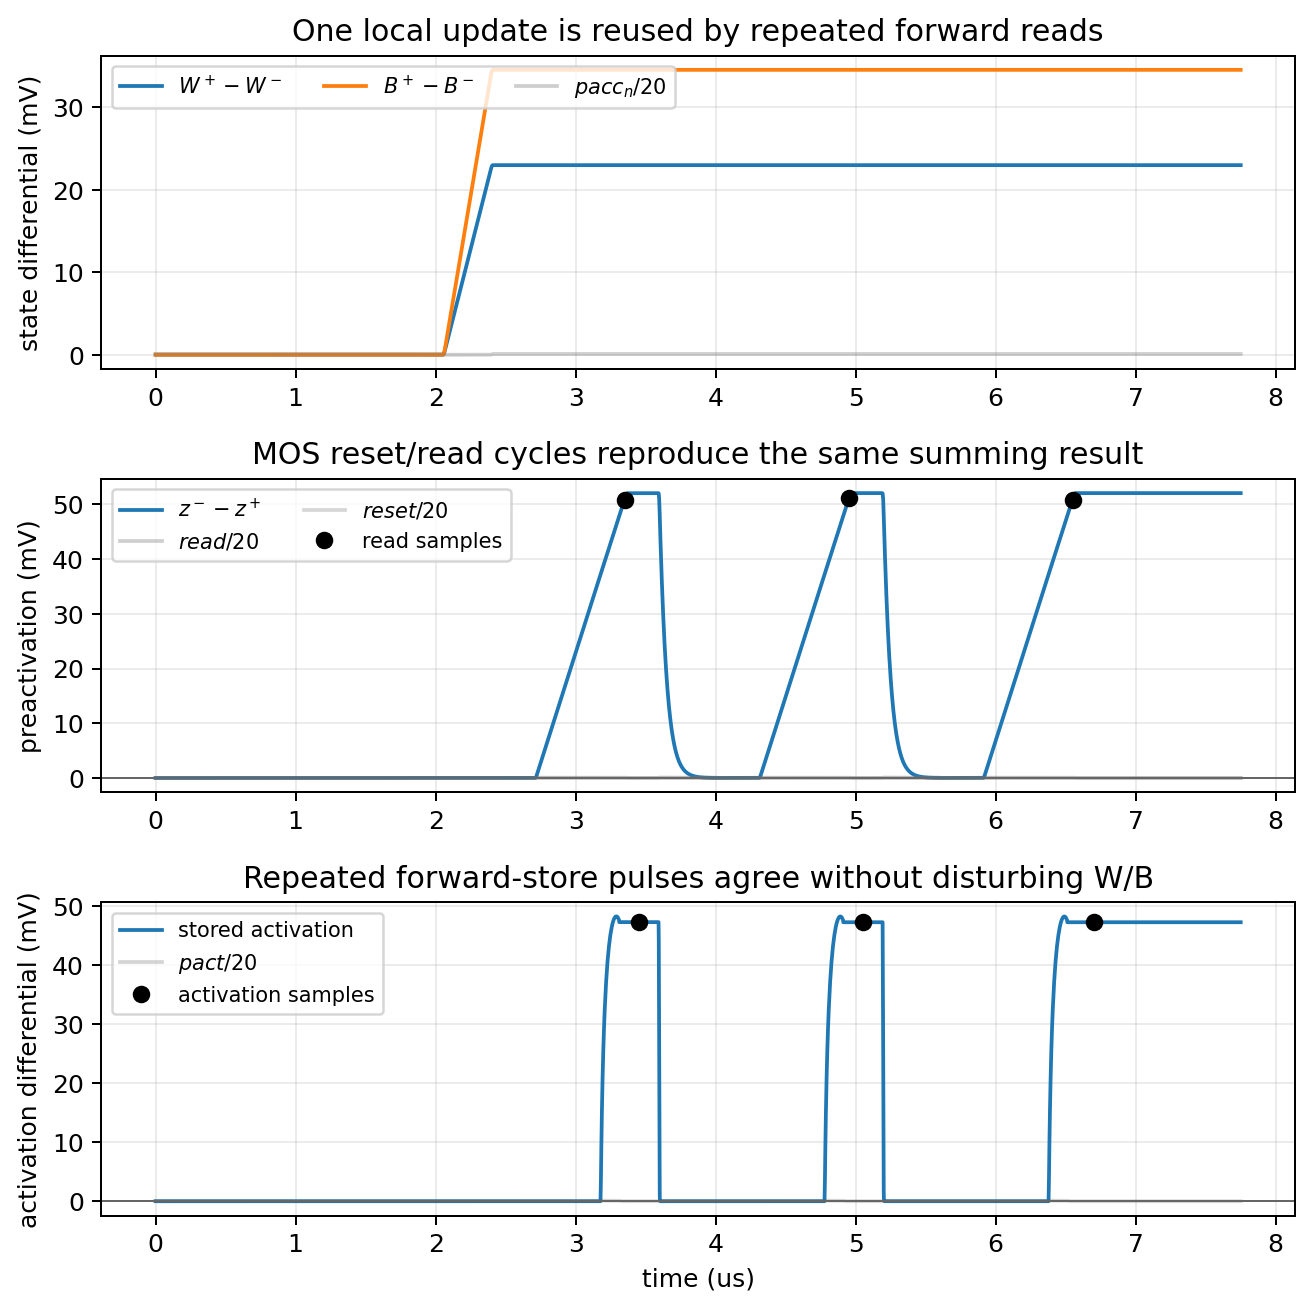
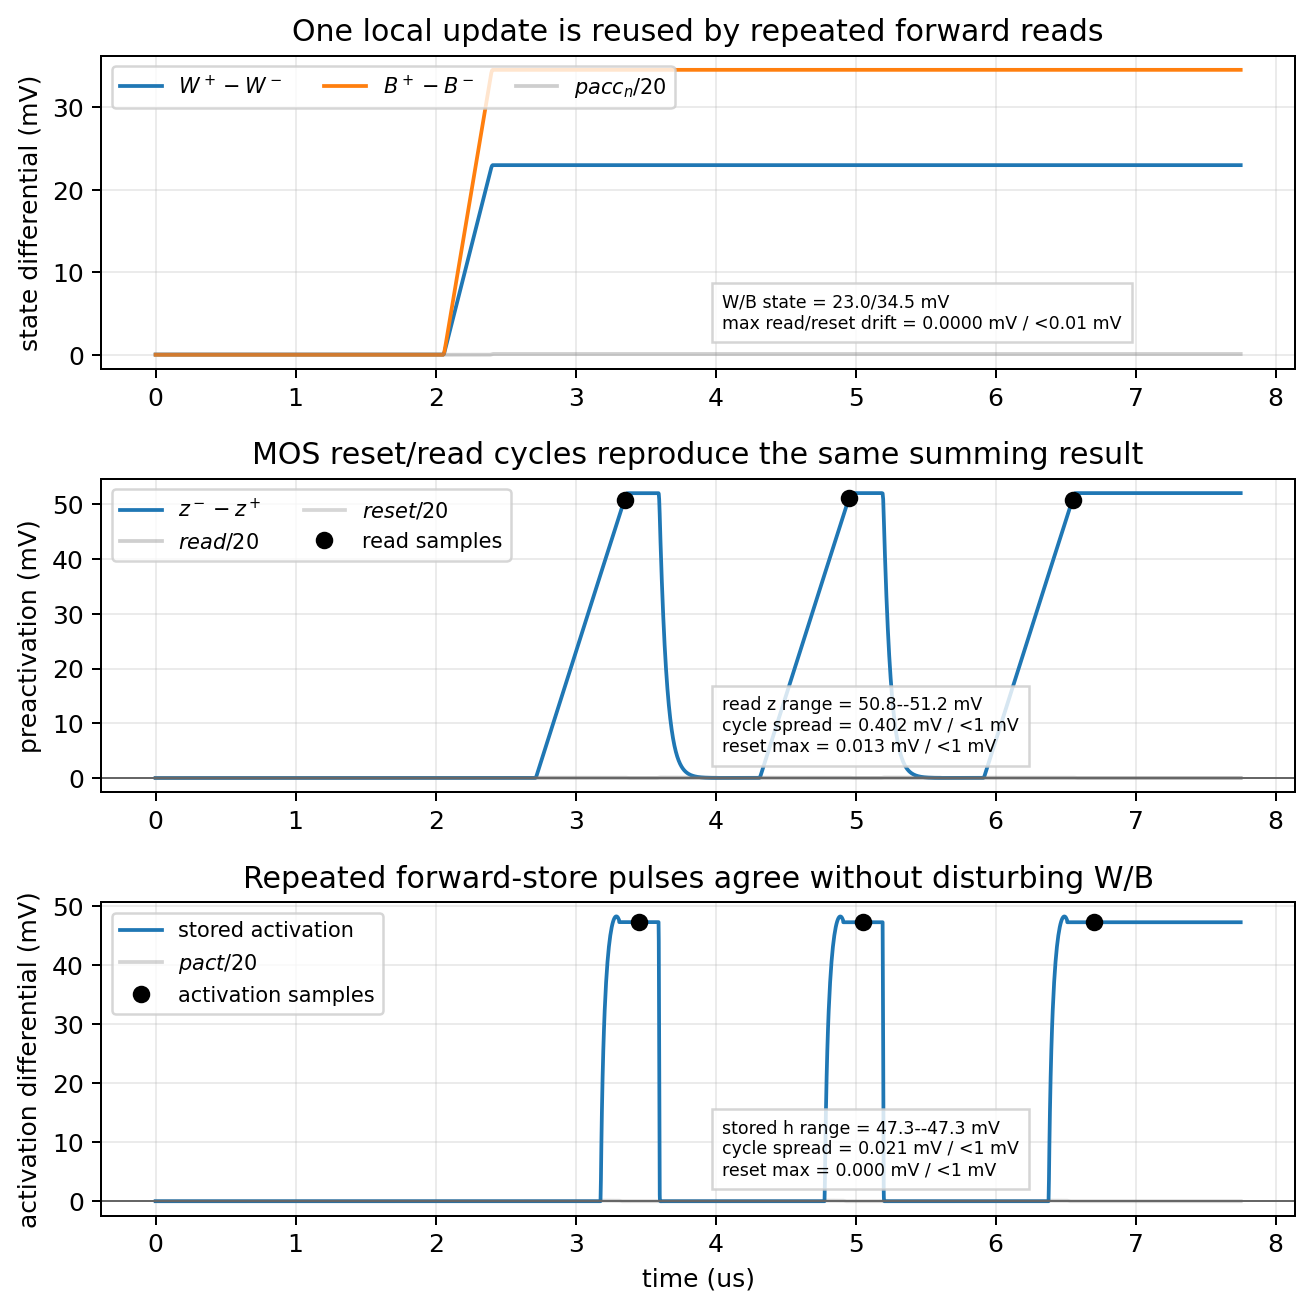
Annotate update-forward reuse margins

Changed region(s): [[0.5312, 0.2139, 0.875, 0.275], [0.5312, 0.8251, 0.7812, 0.9167], [0.5312, 0.5195, 0.7812, 0.5806]]

diff --git a/spice/run_mos_cell_characterization.py b/spice/run_mos_cell_characterization.py
@@ -8301,6 +8301,16 @@ quit
     require(np.all(np.abs(hyf_bias) > 0.030), "update-forward quadrant biases should have useful magnitude")
     require(np.all(np.abs(hyf_preact) > 0.045), "update-forward quadrant preactivations should have useful magnitude")
     require(np.all(np.abs(hyf_forward_store) > 0.030), "update-forward quadrant stored activations should have useful magnitude")
+    hyf_hidden_symmetry_error = abs(hyfat(1.35e-6, hyf_hidden_pos + hyf_hidden_neg))
+    hyf_selected_max = max(hyfat(1.45e-6, hyf_rp_selected_gate), hyfat(1.45e-6, hyf_rm_selected_gate))
+    hyf_complement_min = min(hyfat(1.45e-6, hyf_rp_complement_gate), hyfat(1.45e-6, hyf_rm_complement_gate))
+    hyf_weight_mag_min = float(np.min(np.abs(hyf_weight)))
+    hyf_weight_mag_spread = float(np.max(np.abs(hyf_weight)) - hyf_weight_mag_min)
+    hyf_bias_mag_min = float(np.min(np.abs(hyf_bias)))
+    hyf_bias_mag_spread = float(np.max(np.abs(hyf_bias)) - hyf_bias_mag_min)
+    hyf_preact_mag_min = float(np.min(np.abs(hyf_preact)))
+    hyf_store_mag_min = float(np.min(np.abs(hyf_forward_store)))
+    hyf_store_mag_spread = float(np.max(np.abs(hyf_forward_store)) - hyf_store_mag_min)
 
     hyf_x = np.arange(len(hybrid_product_cases))
     hyf_labels = [label for _name, label, *_rest in hybrid_product_cases]
@@ -8315,6 +8325,19 @@ quit
     hyf_axes[0].set_ylabel("voltage (V)")
     hyf_axes[0].set_title("Four matched copies store both error signs once")
     hyf_axes[0].grid(True, alpha=0.25)
+    hyf_axes[0].text(
+        0.05,
+        0.13,
+        "e+/e- stores = "
+        f"{1e3 * hyfat(1.35e-6, hyf_hidden_pos):.1f}/{1e3 * hyfat(1.35e-6, hyf_hidden_neg):.1f} mV\n"
+        "symmetry error = "
+        f"{1e3 * hyf_hidden_symmetry_error:.2f} mV / <3 mV\n"
+        "selected max = "
+        f"{hyf_selected_max:.2f} V, complement min = {hyf_complement_min:.2f} V",
+        transform=hyf_axes[0].transAxes,
+        fontsize="x-small",
+        bbox=callout_box,
+    )
     hyf_axes[0].legend(loc="center right", ncol=2, fontsize="small")
     hyf_weight_bars = hyf_axes[1].bar(hyf_x - 0.18, 1e3 * hyf_weight, width=0.36, label="$W^+ - W^-$")
     hyf_bias_bars = hyf_axes[1].bar(hyf_x + 0.18, 1e3 * hyf_bias, width=0.36, label="$B^+ - B^-$")
@@ -8324,11 +8347,26 @@ quit
     hyf_axes[1].set_ylabel("state step (mV)")
     hyf_axes[1].set_title("local update writes signed W/B capacitor states")
     hyf_state_max = max(1.0, float(1e3 * np.max(np.abs(np.concatenate([hyf_weight, hyf_bias])))))
-    hyf_axes[1].set_ylim(-1.35 * hyf_state_max, 1.35 * hyf_state_max)
+    hyf_axes[1].set_ylim(-1.55 * hyf_state_max, 2.70 * hyf_state_max)
     hyf_axes[1].bar_label(hyf_weight_bars, labels=[f"{value:+.1f}" for value in 1e3 * hyf_weight], padding=2, fontsize="x-small")
     hyf_axes[1].bar_label(hyf_bias_bars, labels=[f"{value:+.1f}" for value in 1e3 * hyf_bias], padding=2, fontsize="x-small")
     hyf_axes[1].grid(True, axis="y", alpha=0.25)
-    hyf_axes[1].legend(loc="center left", bbox_to_anchor=(1.01, 0.5), fontsize="small")
+    hyf_axes[1].text(
+        0.04,
+        0.62,
+        "min |W| = "
+        f"{1e3 * hyf_weight_mag_min:.1f} mV / >18 mV\n"
+        "|W| spread = "
+        f"{1e3 * hyf_weight_mag_spread:.2f} mV\n"
+        "min |B| = "
+        f"{1e3 * hyf_bias_mag_min:.1f} mV / >30 mV\n"
+        "|B| spread = "
+        f"{1e3 * hyf_bias_mag_spread:.2f} mV",
+        transform=hyf_axes[1].transAxes,
+        fontsize="x-small",
+        bbox=callout_box,
+    )
+    hyf_axes[1].legend(loc="upper right", ncol=2, fontsize="small")
     hyf_preact_bars = hyf_axes[2].bar(hyf_x - 0.24, 1e3 * hyf_preact, width=0.24, label="$z^- - z^+$")
     hyf_load_bars = hyf_axes[2].bar(hyf_x, 1e3 * hyf_forward_load, width=0.24, label="forward load")
     hyf_store_bars = hyf_axes[2].bar(hyf_x + 0.24, 1e3 * hyf_forward_store, width=0.24, label="stored activation")
@@ -8339,12 +8377,26 @@ quit
     hyf_axes[2].set_ylabel("differential (mV)")
     hyf_axes[2].set_title("read, forward pair, and activation store follow the error sign")
     hyf_forward_max = max(1.0, float(1e3 * np.max(np.abs(np.concatenate([hyf_preact, hyf_forward_load, hyf_forward_store])))))
-    hyf_axes[2].set_ylim(-1.35 * hyf_forward_max, 1.35 * hyf_forward_max)
+    hyf_axes[2].set_ylim(-1.55 * hyf_forward_max, 2.70 * hyf_forward_max)
     hyf_axes[2].bar_label(hyf_preact_bars, labels=[f"{value:+.1f}" for value in 1e3 * hyf_preact], padding=2, fontsize="x-small")
     hyf_axes[2].bar_label(hyf_load_bars, labels=[f"{value:+.1f}" for value in 1e3 * hyf_forward_load], padding=2, fontsize="x-small")
     hyf_axes[2].bar_label(hyf_store_bars, labels=[f"{value:+.1f}" for value in 1e3 * hyf_forward_store], padding=2, fontsize="x-small")
     hyf_axes[2].grid(True, axis="y", alpha=0.25)
-    hyf_axes[2].legend(loc="center left", bbox_to_anchor=(1.01, 0.5), fontsize="small")
+    hyf_axes[2].text(
+        0.04,
+        0.58,
+        "min |z| = "
+        f"{1e3 * hyf_preact_mag_min:.1f} mV / >45 mV\n"
+        "min |stored h| = "
+        f"{1e3 * hyf_store_mag_min:.1f} mV / >30 mV\n"
+        "stored-h spread = "
+        f"{1e3 * hyf_store_mag_spread:.2f} mV\n"
+        "all signs match expected rails",
+        transform=hyf_axes[2].transAxes,
+        fontsize="x-small",
+        bbox=callout_box,
+    )
+    hyf_axes[2].legend(loc="upper right", ncol=3, fontsize="small")
     hyf_fig.tight_layout()
     save_plot(hyf_fig, "mos_hidden_writer_restored_gate_hybrid_update_forward_quadrants_ngspice")
 
@@ -8758,6 +8810,11 @@ quit
     require(np.max(hyrr_h_reset) < 0.001, "read-reuse reset should clear stored activation between reads")
     require(abs(hyrr_weight_drift) < 1e-5, "repeated read/reset cycles should not disturb weight state")
     require(abs(hyrr_bias_drift) < 1e-5, "repeated read/reset cycles should not disturb bias state")
+    hyrr_z_spread = float(np.max(hyrr_z_samples) - np.min(hyrr_z_samples))
+    hyrr_h_spread = float(np.max(hyrr_h_samples) - np.min(hyrr_h_samples))
+    hyrr_z_reset_max = float(np.max(hyrr_z_reset))
+    hyrr_h_reset_max = float(np.max(hyrr_h_reset))
+    hyrr_state_drift_max = max(abs(hyrr_weight_drift), abs(hyrr_bias_drift))
 
     hyrr_fig, hyrr_axes = plt.subplots(3, 1, figsize=(7.4, 7.4), gridspec_kw={"height_ratios": [1.0, 1.0, 1.0]})
     hyrr_axes[0].plot(1e6 * hyrrt, 1e3 * hyrr_weight, label="$W^+ - W^-$")
@@ -8766,6 +8823,17 @@ quit
     hyrr_axes[0].set_ylabel("state differential (mV)")
     hyrr_axes[0].set_title("One local update is reused by repeated forward reads")
     hyrr_axes[0].grid(True, alpha=0.25)
+    hyrr_axes[0].text(
+        0.52,
+        0.13,
+        "W/B state = "
+        f"{1e3 * hyrr_weight_after_write:.1f}/{1e3 * hyrr_bias_after_write:.1f} mV\n"
+        "max read/reset drift = "
+        f"{1e3 * hyrr_state_drift_max:.4f} mV / <0.01 mV",
+        transform=hyrr_axes[0].transAxes,
+        fontsize="x-small",
+        bbox=callout_box,
+    )
     hyrr_axes[0].legend(loc="upper left", ncol=3, fontsize="small")
     hyrr_axes[1].plot(1e6 * hyrrt, 1e3 * hyrr_preact, label="$z^- - z^+$")
     hyrr_axes[1].plot(1e6 * hyrrt, hyrr_cols[21] / 20.0, color="0.25", alpha=0.25, label="$read/20$")
@@ -8775,6 +8843,19 @@ quit
     hyrr_axes[1].set_ylabel("preactivation (mV)")
     hyrr_axes[1].set_title("MOS reset/read cycles reproduce the same summing result")
     hyrr_axes[1].grid(True, alpha=0.25)
+    hyrr_axes[1].text(
+        0.52,
+        0.13,
+        "read z range = "
+        f"{1e3 * np.min(hyrr_z_samples):.1f}--{1e3 * np.max(hyrr_z_samples):.1f} mV\n"
+        "cycle spread = "
+        f"{1e3 * hyrr_z_spread:.3f} mV / <1 mV\n"
+        "reset max = "
+        f"{1e3 * hyrr_z_reset_max:.3f} mV / <1 mV",
+        transform=hyrr_axes[1].transAxes,
+        fontsize="x-small",
+        bbox=callout_box,
+    )
     hyrr_axes[1].legend(loc="upper left", ncol=2, fontsize="small")
     hyrr_axes[2].plot(1e6 * hyrrt, 1e3 * hyrr_forward_store, label="stored activation")
     hyrr_axes[2].plot(1e6 * hyrrt, hyrr_cols[22] / 20.0, color="0.35", alpha=0.25, label="$pact/20$")
@@ -8784,6 +8865,19 @@ quit
     hyrr_axes[2].set_ylabel("activation differential (mV)")
     hyrr_axes[2].set_title("Repeated forward-store pulses agree without disturbing W/B")
     hyrr_axes[2].grid(True, alpha=0.25)
+    hyrr_axes[2].text(
+        0.52,
+        0.13,
+        "stored h range = "
+        f"{1e3 * np.min(hyrr_h_samples):.1f}--{1e3 * np.max(hyrr_h_samples):.1f} mV\n"
+        "cycle spread = "
+        f"{1e3 * hyrr_h_spread:.3f} mV / <1 mV\n"
+        "reset max = "
+        f"{1e3 * hyrr_h_reset_max:.3f} mV / <1 mV",
+        transform=hyrr_axes[2].transAxes,
+        fontsize="x-small",
+        bbox=callout_box,
+    )
     hyrr_axes[2].legend(loc="upper left", fontsize="small")
     hyrr_fig.tight_layout()
     save_plot(hyrr_fig, "mos_hidden_writer_restored_gate_hybrid_update_forward_read_reuse_ngspice")
@@ -8835,6 +8929,12 @@ quit
     require(abs(hynr_bias_drift) < 1e-5, "negative repeated read/reset cycles should not disturb bias state")
     require(np.max(np.abs(hyrr_z_samples + hynr_z_samples)) < 0.001, "positive and negative read-reuse preactivations should mirror")
     require(np.max(np.abs(hyrr_h_samples + hynr_h_samples)) < 0.001, "positive and negative read-reuse activations should mirror")
+    hynr_z_spread = float(np.max(hynr_z_samples) - np.min(hynr_z_samples))
+    hynr_h_spread = float(np.max(hynr_h_samples) - np.min(hynr_h_samples))
+    hyrr_hynr_z_mirror = float(np.max(np.abs(hyrr_z_samples + hynr_z_samples)))
+    hyrr_hynr_h_mirror = float(np.max(np.abs(hyrr_h_samples + hynr_h_samples)))
+    hynr_state_drift_max = max(abs(hyrr_weight_drift), abs(hyrr_bias_drift), abs(hynr_weight_drift), abs(hynr_bias_drift))
+    hynr_reset_max = max(float(np.max(hyrr_z_reset)), float(np.max(hyrr_h_reset)), float(np.max(hynr_z_reset)), float(np.max(hynr_h_reset)))
 
     hynr_fig, hynr_axes = plt.subplots(3, 1, figsize=(7.4, 7.4), gridspec_kw={"height_ratios": [1.0, 1.0, 1.0]})
     hynr_axes[0].plot(1e6 * hyrrt, 1e3 * hyrr_weight, label="$+W$ state")
@@ -8846,6 +8946,19 @@ quit
     hynr_axes[0].set_ylabel("state differential (mV)")
     hynr_axes[0].set_title("Positive and negative local updates both survive repeated reads")
     hynr_axes[0].grid(True, alpha=0.25)
+    hynr_axes[0].text(
+        0.50,
+        0.13,
+        "+/- W states = "
+        f"{1e3 * hyrr_weight_after_write:.1f}/{1e3 * hynr_weight_after_write:.1f} mV\n"
+        "+/- B states = "
+        f"{1e3 * hyrr_bias_after_write:.1f}/{1e3 * hynr_bias_after_write:.1f} mV\n"
+        "max read/reset drift = "
+        f"{1e3 * hynr_state_drift_max:.4f} mV",
+        transform=hynr_axes[0].transAxes,
+        fontsize="x-small",
+        bbox=callout_box,
+    )
     hynr_axes[0].legend(loc="upper left", ncol=3, fontsize="small")
     hynr_axes[1].plot(1e6 * hyrrt, 1e3 * hyrr_preact, label="+ update reads")
     hynr_axes[1].plot(1e6 * hynrt, 1e3 * hynr_preact, "--", label="- update reads")
@@ -8857,6 +8970,19 @@ quit
     hynr_axes[1].set_ylabel("preactivation (mV)")
     hynr_axes[1].set_title("Read/reset cycles preserve the sign and magnitude of the summing result")
     hynr_axes[1].grid(True, alpha=0.25)
+    hynr_axes[1].text(
+        0.50,
+        0.13,
+        "+/- z spread = "
+        f"{1e3 * hyrr_z_spread:.3f}/{1e3 * hynr_z_spread:.3f} mV\n"
+        "mirror error = "
+        f"{1e3 * hyrr_hynr_z_mirror:.3f} mV / <1 mV\n"
+        "reset max = "
+        f"{1e3 * hynr_reset_max:.3f} mV / <1 mV",
+        transform=hynr_axes[1].transAxes,
+        fontsize="x-small",
+        bbox=callout_box,
+    )
     hynr_axes[1].legend(loc="upper left", ncol=2, fontsize="small")
     hynr_axes[2].plot(1e6 * hyrrt, 1e3 * hyrr_forward_store, label="+ stored activation")
     hynr_axes[2].plot(1e6 * hynrt, 1e3 * hynr_forward_store, "--", label="- stored activation")
@@ -8868,6 +8994,17 @@ quit
     hynr_axes[2].set_ylabel("activation differential (mV)")
     hynr_axes[2].set_title("Forward-store reuse mirrors for both trainable-state signs")
     hynr_axes[2].grid(True, alpha=0.25)
+    hynr_axes[2].text(
+        0.50,
+        0.13,
+        "+/- h spread = "
+        f"{1e3 * hyrr_h_spread:.3f}/{1e3 * hynr_h_spread:.3f} mV\n"
+        "mirror error = "
+        f"{1e3 * hyrr_hynr_h_mirror:.3f} mV / <1 mV",
+        transform=hynr_axes[2].transAxes,
+        fontsize="x-small",
+        bbox=callout_box,
+    )
     hynr_axes[2].legend(loc="upper left", ncol=2, fontsize="small")
     hynr_fig.tight_layout()
     save_plot(hynr_fig, "mos_hidden_writer_restored_gate_hybrid_update_forward_signed_read_reuse_ngspice")

diff --git a/engineering_log.md b/engineering_log.md
@@ -809,3 +809,4 @@
 - Added ngspice-derived callouts to the remaining paper-facing hybrid-writer summary figures: timing-corner, bias-writer, integrated cell-update, and four-quadrant cell-update plots. The regenerated figures now show the same trace-backed margins that the assertions enforce, including selected/complement restored-gate levels, stored error symmetry, inactive-rail suppression, hold error, update/readback magnitudes, pacc timing requirements, and quadrant spread. This did not change circuit behavior; it closes the readability gap for the older hybrid summary plots so the paper figures expose the actual MOS/ngspice evidence instead of requiring readers to trust the captions.
 - Added assertion-derived margin callouts to the basic MOS synapse mismatch and common-mode figures. The mismatch plot now reports the bounded zero offset (`20 mV` max under the +/-20 mV threshold-skew fixture), the mirrored gate-swapped W- zero error, retained current swing, and offset span. The common-mode plot now reports peak-current range (`465--486 uA`), minimum sign margin (`315 uA`), centering error (`0.4%` of peak), and W-/W+ mirror error. Regenerated the synapse family through ngspice and inspected the resulting PNGs; this closes a paper-figure readability gap without changing the underlying circuits or thresholds.
 - Added assertion-derived callouts to the restored-gate hybrid update-to-forward integration and same-cell reuse plots. The single-sample integration plot now shows stored error, selected/complement restored-gate levels, sampled activation, W/B write magnitudes, pre-read quietness, read preactivation, forward-load/store magnitudes, and W/B read-disturb. The reuse plot now shows first/second signed error stores, reset residue, first W/B writes, opposite-update cancellation residue, reset z/h residue, and cancelled final activation. Reran the full `--only update` ngspice suite; all existing update-family assertions still pass, and the two regenerated PNGs now expose the measured integration margins directly.
+- Added assertion-derived callouts to the update-forward quadrant and repeated-read/reuse figures. The quadrant plot now exposes stored error symmetry, selected/complement restored-gate separation, signed W/B update minima and spread, minimum preactivation, stored activation margin, and sign alignment across all activation/error quadrants. The read-reuse plots now show W/B drift, cycle-to-cycle preactivation and activation spread, reset residue, and positive/negative mirror error, making the ngspice-backed reuse margins visible without relying on caption text alone.
